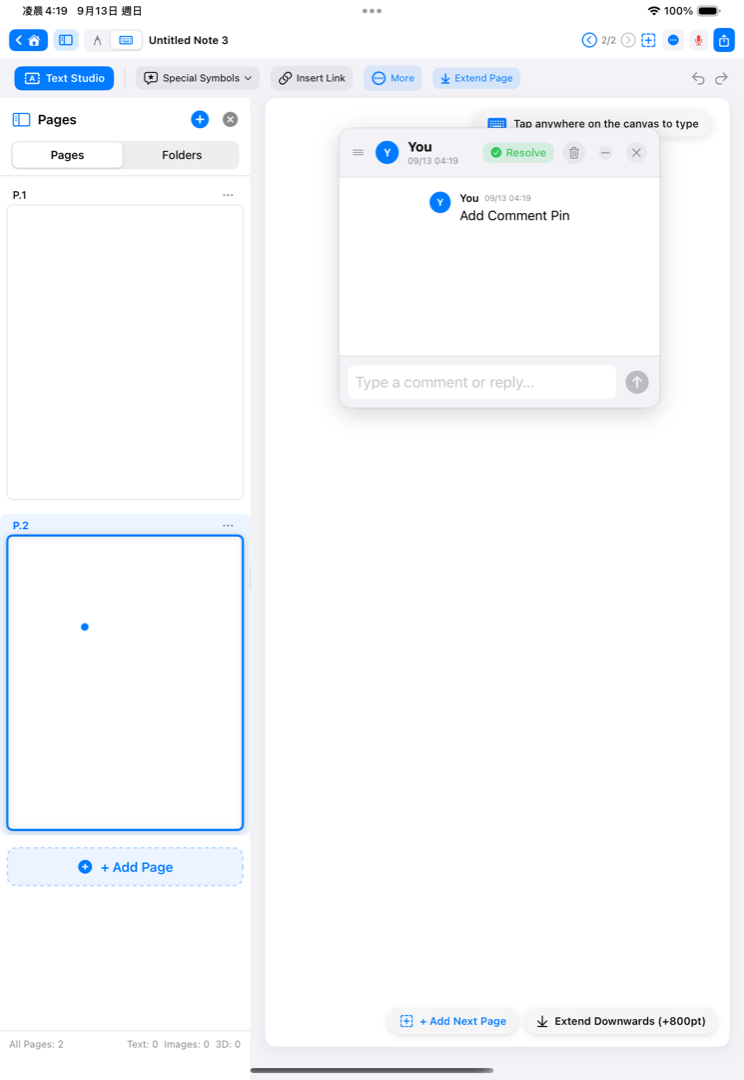
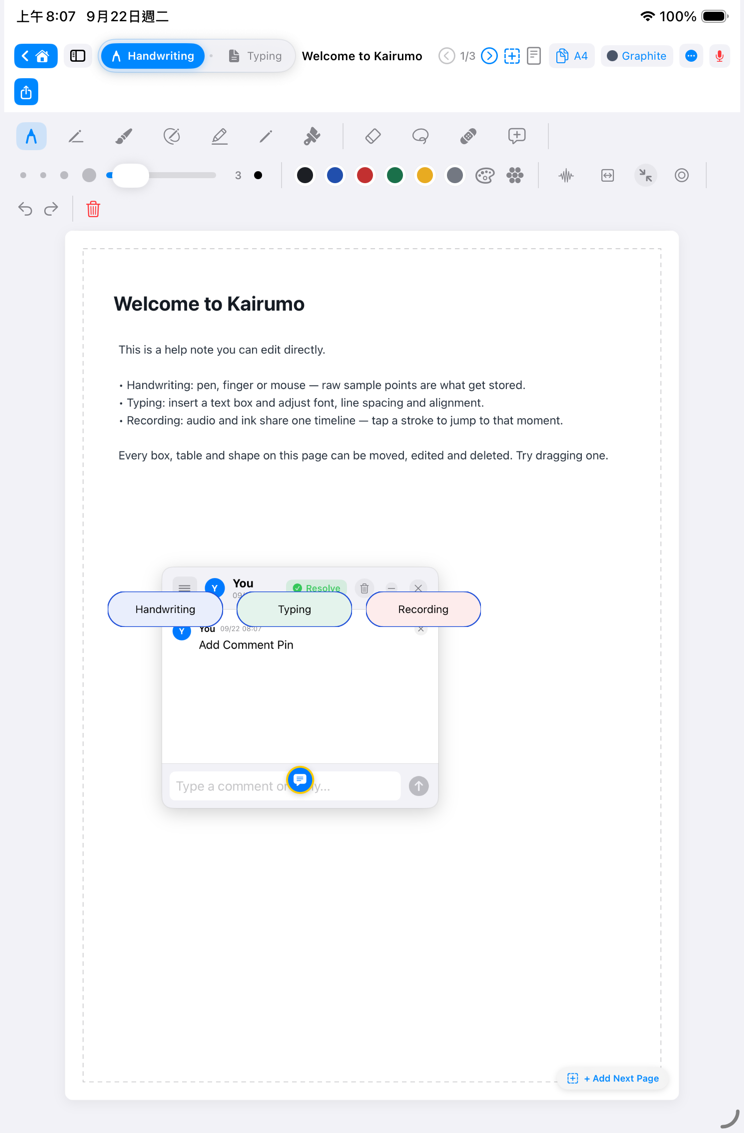
fix(apple): 討論圖釘根本放不上去 —— 點擊層被壓在畫布底下
拍操作手冊的 comment 那張時發現：按了「加入討論圖釘」，橫幅出現叫你
「點畫布放置圖釘」，但點下去是在畫線（手繪模式）或插入文字游標
（打字模式）—— **圖釘一個都放不上去，這個功能等於完全不能用**。

原因很具體：那個點擊層沒有設 `zIndex`，於是預設為 0，
而畫布是 `.zIndex(1)`、物件層是 `.zIndex(2)`。它被壓在最底下，
點擊永遠到不了它。

補上 `.zIndex(3)` 之後在模擬器上驗證過：圖釘放得上去，討論串面板正常
顯示，Resolve／刪除／收合／關閉都在。

**這是實機（模擬器）驗證才找得到的那一類。** 程式碼看起來完全正常 ——
overlay 有、onTapGesture 有、狀態切換也對；單元測試不會碰 SwiftUI 的
圖層順序，一致性向量也管不到它。要發現它只能真的去點一下。

diff --git a/apple/Sources/NotebookEditorView.swift b/apple/Sources/NotebookEditorView.swift
@@ -3465,7 +3465,15 @@ public struct NotebookEditorView: View {
                 )
             }
 
-            // 放置討論圖釘模式互動層
+            // 放置討論圖釘模式互動層。
+            //
+            // **`zIndex` 不能省。** 這一層原本沒有設，於是預設為 0 ——
+            // 而畫布是 `.zIndex(1)`、物件層是 `.zIndex(2)`，它就被壓在最底下，
+            // 點擊永遠到不了它。症狀是「加入討論圖釘」按下去之後，橫幅叫你
+            // 點畫布，點下去卻是在畫線（手繪模式）或插入文字游標（打字模式），
+            // 圖釘**一個都放不上去**。這個功能等於完全不能用。
+            //
+            // 2026-09-22 拍操作手冊截圖時發現：橫幅出現了，圖釘卻怎麼點都不出現。
             if isPlacingCommentPin {
                 GeometryReader { geo in
                     Color.blue.opacity(0.001)
@@ -3499,6 +3507,7 @@ public struct NotebookEditorView: View {
                             collaborationManager.broadcastSelection(selectedId: newPin.id)
                         }
                 }
+                .zIndex(3)
 
                 // 放置圖釘模式頂部提示條
                 HStack(spacing: 8) {
